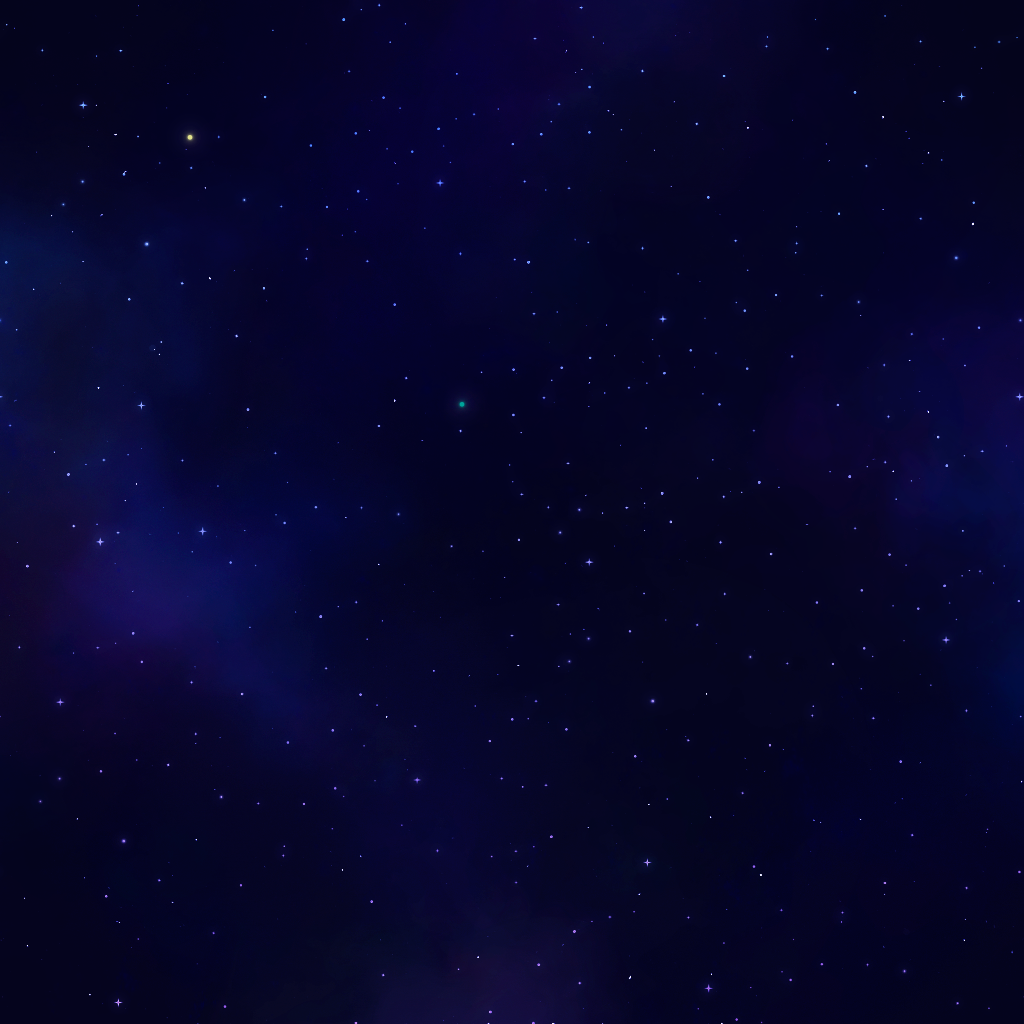
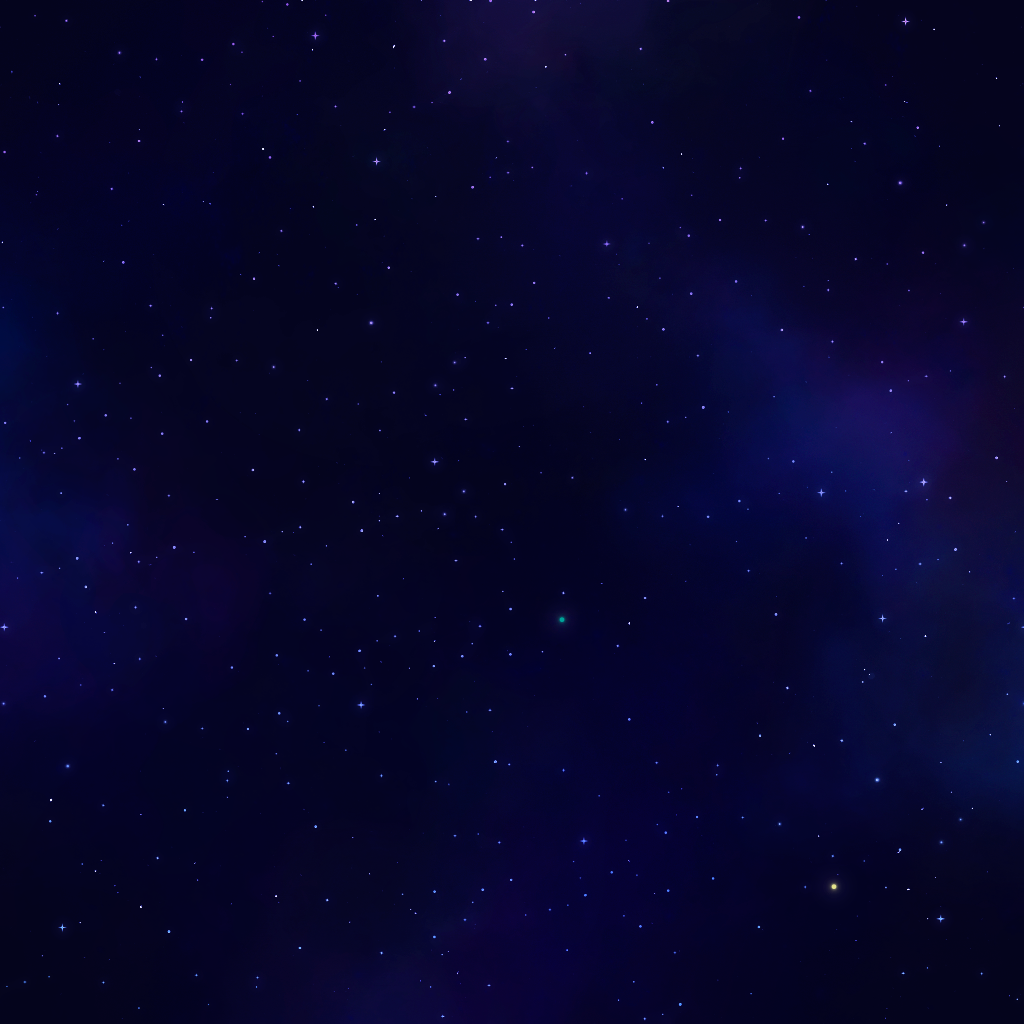
Add Saturn ring mesh and texture rendering support
Implemented CreateRing mesh generation and integrated Saturn's ring rendering with a new texture and material. Updated skybox images and added camera scroll zoom. Project files now include saturnRing.png.

diff --git a/physics-engine/PrimitiveMeshFactory.cpp b/physics-engine/PrimitiveMeshFactory.cpp
@@ -49,3 +49,80 @@ Mesh PrimitiveMeshFactory::CreateSphere(float radius, int sectors, int stacks) {
 	}
 	return Mesh(vertices, indices);
 }
+Mesh PrimitiveMeshFactory::CreateRing(float innerRadius, float outerRadius, int segments) {
+	std::vector<Vertex> vertices;
+	std::vector<GLuint> indices;
+
+	const float PI = 3.14159;
+
+	for (int i = 0;i <= segments;i++) {
+		float angle = 2.0f * PI * i / segments;
+
+		float c = cos(angle);
+		float s = sin(angle);
+
+		Vertex inner;
+		inner.position = glm::vec3(innerRadius * c, 0.0f, innerRadius * s);
+
+		inner.normal = glm::vec3(0.0f, 1.0f, 0.0f);
+		inner.color = glm::vec3(1.0f);
+		inner.texUV = glm::vec2((float)i / segments, 0.0f);
+
+		Vertex outer;
+		outer.position = glm::vec3(outerRadius * c, 0.0f, outerRadius * s);
+
+		outer.normal = glm::vec3(0.0f, 1.0f, 0.0f);
+		outer.color = glm::vec3(1.0f);
+		outer.texUV = glm::vec2((float)i / segments, 1.0f);
+
+		vertices.push_back(inner);
+		vertices.push_back(outer);
+
+	}
+	const int frontVertexCount = vertices.size();
+
+	for (int i = 0; i < frontVertexCount; i++)
+	{
+		Vertex back = vertices[i];
+
+		back.normal *= -1.0f;
+
+		vertices.push_back(back);
+	}
+	for (int i = 0;i < segments;i++) {
+		int inner1 = i * 2;
+		int outer1 = inner1 + 1;
+
+		int inner2 = (i + 1) * 2;
+		int outer2 = inner2 + 1;
+
+		indices.push_back(inner1);
+		indices.push_back(outer1);
+		indices.push_back(inner2);
+
+		indices.push_back(outer1);
+		indices.push_back(outer2);
+		indices.push_back(inner2);
+	}
+	int offset = frontVertexCount;
+
+	for (int i = 0; i < segments; i++)
+	{
+		int inner1 = offset + i * 2;
+		int outer1 = inner1 + 1;
+
+		int inner2 = offset + (i + 1) * 2;
+		int outer2 = inner2 + 1;
+
+		// Reverse winding order
+		indices.push_back(inner1);
+		indices.push_back(inner2);
+		indices.push_back(outer1);
+
+		indices.push_back(outer1);
+		indices.push_back(inner2);
+		indices.push_back(outer2);
+	}
+
+	return Mesh(vertices, indices);
+}

diff --git a/physics-engine/main.cpp b/physics-engine/main.cpp
@@ -24,6 +24,7 @@ SimulationSettings simulationsettings;
 
 
 
+
 void ScrollCallback(GLFWwindow* window, double xoffset, double yoffset) {
 	Camera* camera = static_cast<Camera*>(glfwGetWindowUserPointer(window));
 	camera->ProccessScroll(yoffset);
@@ -105,6 +106,9 @@ int main() {
 	glm::mat4 lightmodel = glm::mat4(1.0f);
 	lightmodel = glm::translate(lightmodel, lightPos);
 
+	//creating a mesh to render all the the spheres
+	Mesh sphereMesh = PrimitiveMeshFactory::CreateSphere(1.0f, 32, 32);
+	Mesh saturnRingMesh = PrimitiveMeshFactory::CreateRing(1.25f, 2.35f, 128);
 
 	//getiing the location of the uniforms for light pos and colour
 	shaderProgram.Activate();
@@ -133,6 +137,17 @@ int main() {
 	neptuneTexture
 	};
 
+	Material saturnRingMaterial;
+
+	Texture saturnRingTexture("saturnRing.png", "diffuse", 0);
+
+	saturnRingMaterial.diffuseTexture = &saturnRingTexture;
+
+	saturnRingMaterial.diffusecolor = glm::vec3(0.83f, 0.80f, 0.68f);
+	saturnRingMaterial.specularColor = glm::vec3(0.1f);
+	saturnRingMaterial.shininess = 4.0f;
+
+
 	//enabled this to allow opengl to render objects with depth
 	glEnable(GL_DEPTH_TEST);
 
@@ -143,8 +158,6 @@ int main() {
 
 	SandBoxUI ui;
 
-	//creating a mesh to render all the the spheres
-	Mesh sphereMesh = PrimitiveMeshFactory::CreateSphere(1.0f, 32, 32);
 
 	//calling the function to create the solar sytem
 	SolarSystemFactory::CreateSolarSystem(universe, sphereMesh,textures);
@@ -157,8 +170,8 @@ int main() {
 	std::vector<std::string> skyboxFaces = {
 		"right.png",
 		"left.png",
-		"top.png",
 		"bottom.png",
+		"top.png",
 		"back.png",
 		"front.png"
 	};
@@ -223,6 +236,27 @@ int main() {
 		for (CelestialBody* body : universe.bodies) {
 			body->renderable.Draw(shaderProgram, camera, body->transform, body->radius);
 			trailRenderer.Draw(*body, trailShader, camera);
+
+			if (body->Name == "Saturn") {
+				//draw saturn ring Here
+				double renderRadius = Renderable::CalculateRenderRadius(body->radius);
+
+				Transform ringTransform;
+				glm::quat tilt = glm::angleAxis(glm::radians(26.7f), glm::vec3(0.0f, 0.0f, 1.0f));
+
+				ringTransform.position = body->transform.position/Constants::Rendering::DistanceScale;
+				ringTransform.rotation = body->transform.rotation*tilt;
+				ringTransform.scale = glm::vec3(renderRadius*2.2f);
+
+				saturnRingMesh.Draw(
+					shaderProgram,
+					camera,
+					ringTransform.GetMatrix(),
+					ringTransform.position,
+					ringTransform.rotation,
+					ringTransform.scale,
+					saturnRingMaterial);
+			}
 		}
 		ImGui::Render();
 		ImGui_ImplOpenGL3_RenderDrawData(ImGui::GetDrawData());

diff --git a/physics-engine/PrimitiveMeshFactory.h b/physics-engine/PrimitiveMeshFactory.h
@@ -10,6 +10,7 @@ class PrimitiveMeshFactory {
 		static Mesh CreatePlane(float width, float depth);
 		static Mesh CreateCylinder(float radius, float height, int sectors);
 		static Mesh CreateCapsule(float radius, float height, int sectors, int stacks);
+		static Mesh CreateRing(float innerRadius,float outerRadius,int segments);
 };
 
 #endif // !PRIMITIVE_MESH_FACTORY_H